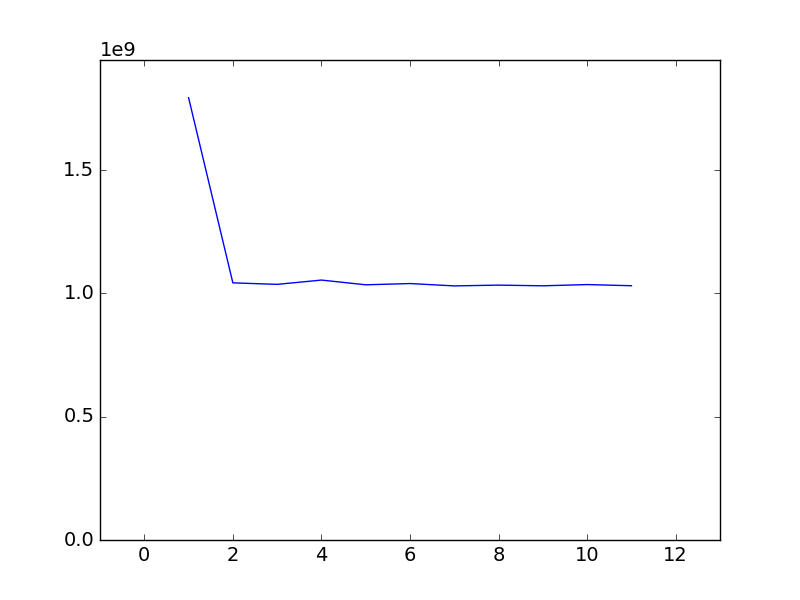
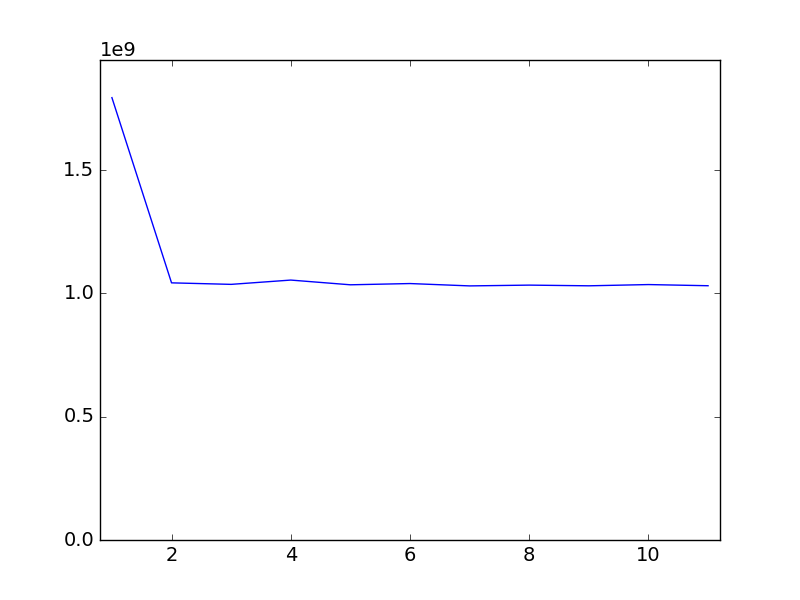
fix layout

diff --git a/semester4/task1/plot.py b/semester4/task1/plot.py
@@ -5,7 +5,7 @@ from sys import stdin
 
 data = np.loadtxt(stdin, dtype=int)
 pl.plot(data[:,0], data[:,1])
-pl.margins(0.2)
+pl.margins(0.02, 0.2)
 pl.ylim(ymin=0)
 pl.xkcd()
 pl.savefig("plot.png")
